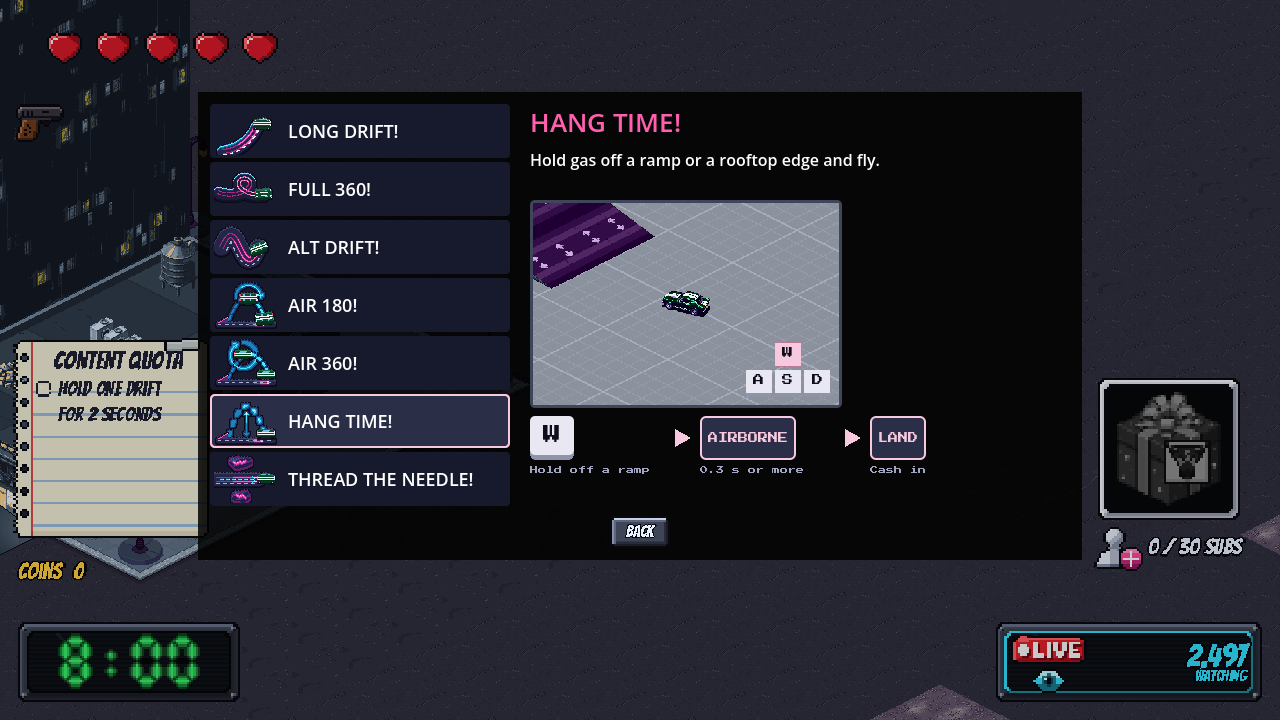
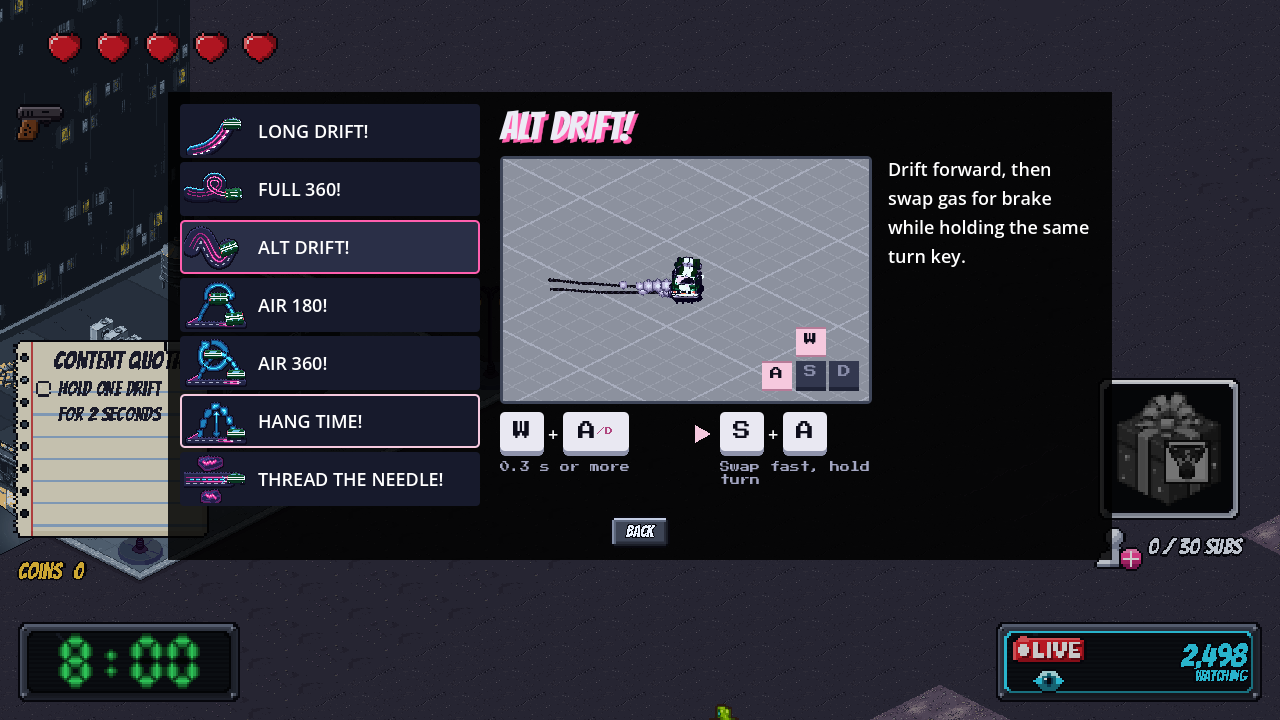
T-491: key pad contrast, trick list detail layout, retaken screenshots
Claude-Session: https://claude.ai/code/session_01N2d996vfhYzGeir2NtRNR3

diff --git a/tasks/T-491-trick-list-keys-and-clips.md b/tasks/T-491-trick-list-keys-and-clips.md
@@ -1,7 +1,7 @@
 ---
 id: T-491
 title: The trick list shows each trick's clip, live key pad and keycap recipe; slide 2's clips get the key pad
-status: in-progress
+status: in-qa
 from: project-lead
 to: ui
 lead: Greenbull
@@ -74,3 +74,6 @@ Only for art and text tasks: one entry per round of the style loop (`tasks/READM
 ## Result notes
 
 Done. New: game/scripts/menu/key_pad.gd (KeyPad.attach; lights ClipPlayer.held_keys() from keys_per_frame, refreshed on the new ClipPlayer.frame_changed signal), game/data/trick_recipes.json (clip, steps, keys, /D marks; texts from tutorial_text.json trick_rule / trick_recipe keys). Slide 2's three clips get the pad (slide 1 unchanged). TrickList rebuilt: seven-row list (click or focus selects) plus detail pane (name, rule, one clip with pad, keycap recipe with arrows, notes, badges, /D tags; none for THREAD THE NEEDLE!); clip loads only while visible. Mapping: air_one_eighty uses ramp_jump, extended_drift long_drift, alternate_drift alt_drift. Panel is 494 -> ~456 px tall so it still clears the HUD clock at 1152x648. Old test_trick_list SCALE assertions changed to LIST_SCALE=1. Tests (-gselect, all pass): test_key_pad 3/3, test_trick_list_recipes 8/8, test_trick_list 6/6, test_tutorial_slides 26/26, test_tutorial_clips 6/6, test_pause_screen 10/10, test_pause_trick_list 8/8. Screenshots 1280x720 in art-archive/T-491/screenshots/: slide2_a.png, slide2_b.png, trick_list_extended_drift.png, trick_list_alternate_drift.png, trick_list_air_one_eighty.png, trick_list_airtime.png, trick_list_thread_the_needle.png. Docs: docs/hud-and-menus.md (Pause screen entry, slides section), game/docs/hud-and-menus/pause-screen.md and tutorial-slides.md. Nothing under game/data/levels/ touched. Untracked .uid files left uncommitted.
+- 2026-11-01, in-progress → in-qa: Trick list, key pad and slide 2 pads built; tests pass; screenshots in art-archive/T-491/screenshots
+
+Project Lead review fixes: (1) key pad unlit keys now dark #33384f with muted letter, lit keys blush #f6c9de with dark letter pressed down 2 px (slide 2 and trick list). (2) Trick list detail: name in Bangers 40 with pink offset shadow; clip 372x248 on the left, rule on its right, recipe full width below with notes at size 10 and wider steps. (3) Screenshots re-taken, each name matches its trick, in art-archive/T-491/screenshots/: slide2_a, slide2_b, trick_list_extended_drift, trick_list_alternate_drift (ALT DRIFT!), trick_list_air_one_eighty, trick_list_air_three_sixty (AIR 360!), trick_list_airtime, trick_list_thread_the_needle; manifest.json updated. Tests re-run with -gselect, all pass: pause_trick_list 8, pause_screen 10, trick_list 6, tutorial_slides 26, key_pad 3, trick_list_recipes 8, tutorial_clips 6. Note: task_status refused in-qa to in-progress (QA criteria unmarked), so the ticket stayed in-qa.
